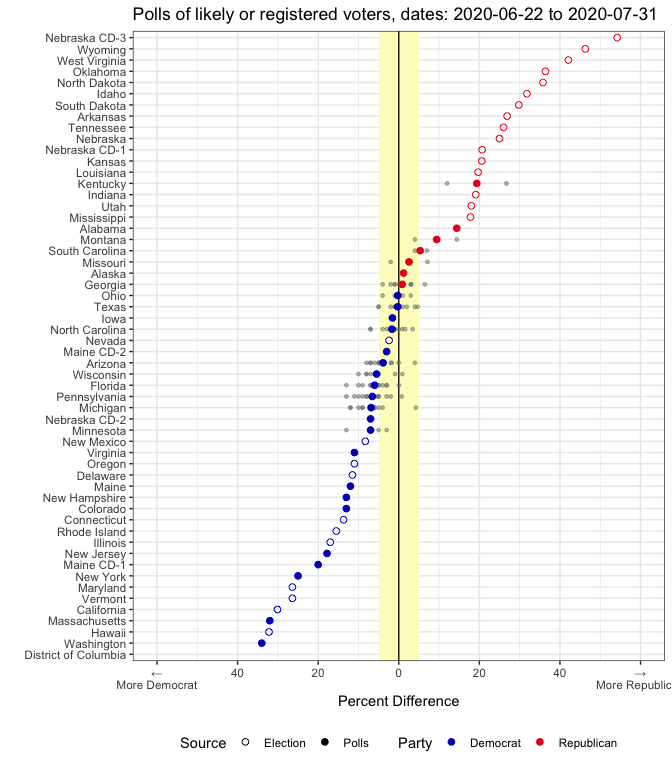
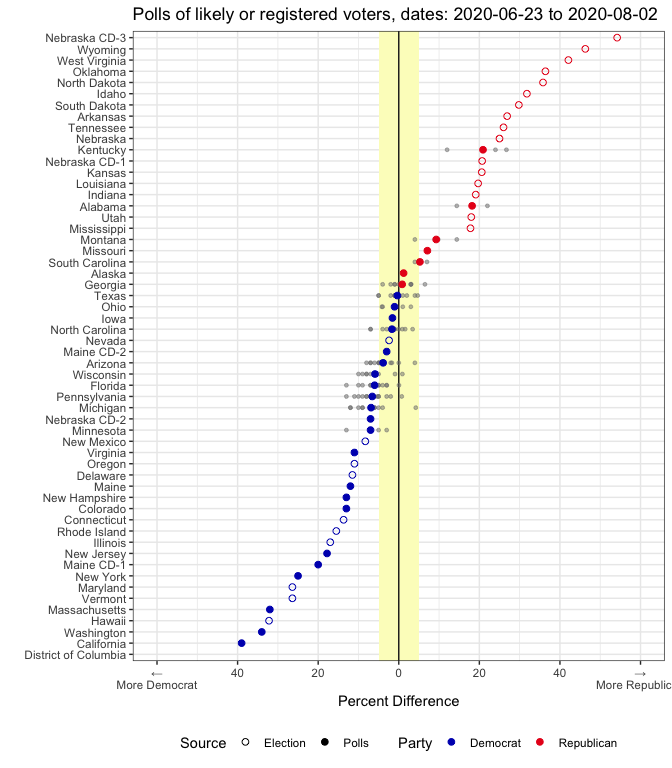
man pages

diff --git a/README.md b/README.md
@@ -91,20 +91,20 @@ to focus on:
 new_polls <- fivethirtyeight_update(polls="president_polls")
 new_polls %>% filter(!is.na(state)) %>%
   select(poll_id, start_date, end_date, pollster, state, candidate_name, pct)
-#> # A tibble: 3,026 x 7
-#>    poll_id start_date end_date   pollster        state     candidate_name    pct
-#>      <dbl> <date>     <date>     <chr>           <chr>     <chr>           <dbl>
-#>  1   67859 2020-07-28 2020-07-31 YouGov          North Ca… Joseph R. Bide…    48
-#>  2   67859 2020-07-28 2020-07-31 YouGov          North Ca… Donald Trump       44
-#>  3   67860 2020-07-28 2020-07-31 YouGov          Georgia   Joseph R. Bide…    46
-#>  4   67860 2020-07-28 2020-07-31 YouGov          Georgia   Donald Trump       45
-#>  5   67827 2020-07-16 2020-07-28 University of … New Hamp… Joseph R. Bide…    53
-#>  6   67827 2020-07-16 2020-07-28 University of … New Hamp… Donald Trump       40
-#>  7   67821 2020-07-23 2020-07-27 Monmouth Unive… Georgia   Joseph R. Bide…    47
-#>  8   67821 2020-07-23 2020-07-27 Monmouth Unive… Georgia   Donald Trump       47
-#>  9   67821 2020-07-23 2020-07-27 Monmouth Unive… Georgia   Jo Jorgensen        3
-#> 10   67821 2020-07-23 2020-07-27 Monmouth Unive… Georgia   Joseph R. Bide…    47
-#> # … with 3,016 more rows
+#> # A tibble: 3,044 x 7
+#>    poll_id start_date end_date   pollster     state       candidate_name     pct
+#>      <dbl> <date>     <date>     <chr>        <chr>       <chr>            <dbl>
+#>  1   67867 2020-07-31 2020-08-02 Emerson Col… Montana     Joseph R. Biden…  45.5
+#>  2   67867 2020-07-31 2020-08-02 Emerson Col… Montana     Donald Trump      54.5
+#>  3   67879 2020-07-24 2020-08-02 Morning Con… Alabama     Joseph R. Biden…  36  
+#>  4   67879 2020-07-24 2020-08-02 Morning Con… Alabama     Donald Trump      58  
+#>  5   67880 2020-07-24 2020-08-02 Morning Con… Kentucky    Joseph R. Biden…  35  
+#>  6   67880 2020-07-24 2020-08-02 Morning Con… Kentucky    Donald Trump      59  
+#>  7   67881 2020-07-24 2020-08-02 Morning Con… South Caro… Joseph R. Biden…  44  
+#>  8   67881 2020-07-24 2020-08-02 Morning Con… South Caro… Donald Trump      49  
+#>  9   67882 2020-07-24 2020-08-02 Morning Con… Texas       Joseph R. Biden…  47  
+#> 10   67882 2020-07-24 2020-08-02 Morning Con… Texas       Donald Trump      46  
+#> # … with 3,034 more rows
 ```
 
 ### Polls by State
@@ -113,7 +113,7 @@ The difference in percentage between democratic and republican
 percentage of the last five polls (of likely or registered voters) for
 each state are shown as grey points, colored points show average
 difference for each point. States are ordered according to difference in
-percentage. The yewllow rectangle shows a margin of +/- 5 percent - the
+percentage. The yellow rectangle shows a margin of +/- 5 percent - the
 typical margin of error of a poll.
 
     #> Warning: Removed 1 rows containing missing values (geom_point).
